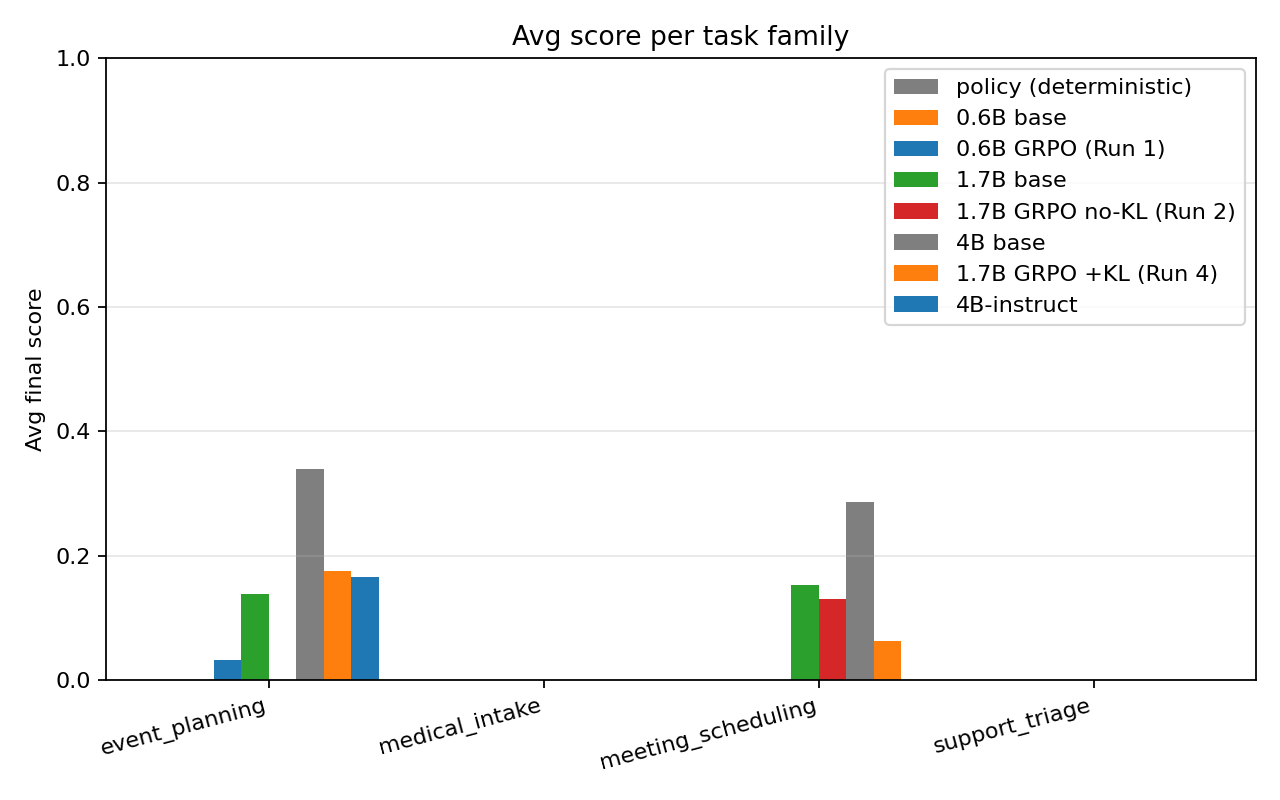
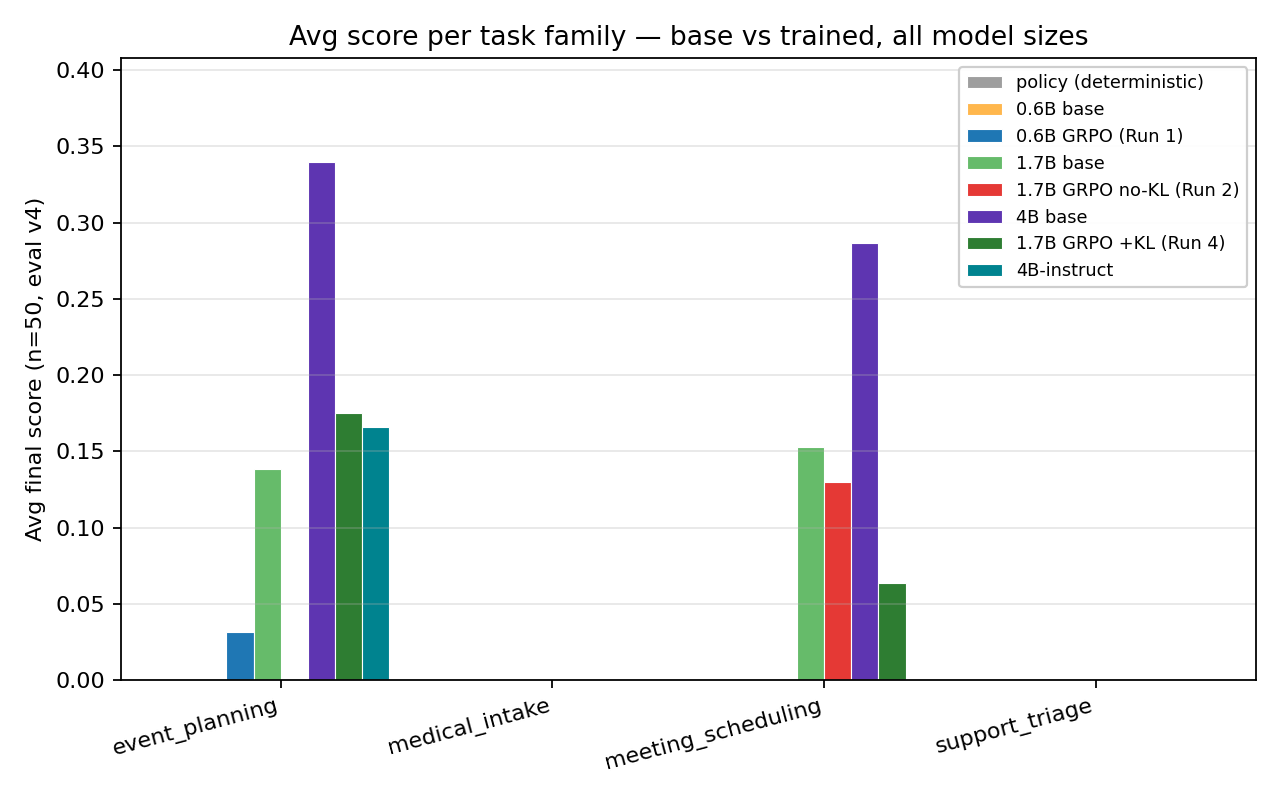
plots: fix component-breakdown key lookup + label-stable colors + autoscale
The submission plot deck had three issues that hurt the "official presentation"
read:

1. plot 03 (component breakdown) was empty across every series. The eval JSON
   stores keys as `FieldMatchRubric` etc., but make_plots.py was only trying
   `FieldMatch` / `fieldmatch` / `FieldMatch` (with `Check` stripped) — so all
   five components fell through to 0.0. The plot is now alive and shows
   InfoGain ~ 0.5-0.85, FieldMatch 0.17-0.62, HallucinationCheck 0.5-0.80,
   averaged only across scenarios where the rubric actually fired (legend
   annotates `n_scored` per series for honesty).

2. plots 02 + 04 had color collisions across the 8 evaluated series — the
   5-color palette wrapped, so 0.6B base and Run 4 were both orange, 0.6B
   GRPO Run 1 and 4B-Instruct were both blue. Replaced with a stable
   label -> color map (8 distinct colors), reused across every plot so the
   same model is the same color in every chart.

3. plots 02 + 04 were locked to y-axis 0..1.0 but the data was 0..0.30 —
   75% of the canvas was wasted whitespace and the deltas were visually
   compressed. Added an `_autoscale_top()` helper that picks
   max(values)*1.20 with a sensible floor so bars actually fill the frame.

Also embedded plot 07 (per-run x per-family scoreboard) in the README right
after the headline tables, and rewrote the captions for plots 02/03/04/05
to match the corrected content.

Made-with: Cursor

diff --git a/scripts/make_plots.py b/scripts/make_plots.py
@@ -53,6 +53,52 @@ def _safe_mean(xs: list[float]) -> float:
     return statistics.mean(xs) if xs else 0.0
 
 
+# Stable label -> color map. Same label = same color in every plot, no
+# collisions across the 8 series we render in the submission deck. Values
+# are picked from matplotlib's tab20 + a couple of overrides to keep the
+# headline trios (Run 1 / Run 2 / Run 4) clearly distinct.
+_LABEL_COLORS: dict[str, str] = {
+    "policy (deterministic)":   "#9e9e9e",   # neutral grey
+    "policy (baseline)":        "#9e9e9e",
+    "0.6B base":                "#ffb74d",   # warm orange
+    "0.6B GRPO (Run 1)":        "#1f77b4",   # strong blue
+    "1.7B base":                "#66bb6a",   # mid green
+    "1.7B GRPO no-KL (Run 2)":  "#e53935",   # red — the regression run
+    "1.7B GRPO +KL (Run 4)":    "#2e7d32",   # deep green — KL-anchored hero
+    "4B base":                  "#5e35b1",   # purple — ceiling marker
+    "4B-instruct":              "#00838f",   # teal
+    "4B GRPO (Run 3)":          "#ff6f00",   # amber
+    "untrained":                "#ffb74d",
+    "trained":                  "#1f77b4",
+}
+
+# Fallback palette when a label isn't pre-mapped. tab20-style colors
+# already chosen to contrast with the named ones above.
+_FALLBACK_COLORS: list[str] = [
+    "#1f77b4", "#ff7f0e", "#2ca02c", "#d62728", "#9467bd",
+    "#8c564b", "#e377c2", "#7f7f7f", "#bcbd22", "#17becf",
+]
+
+
+def _color_for(label: str, fallback_index: int = 0) -> str:
+    """Return a stable, distinct color for `label`."""
+    if label in _LABEL_COLORS:
+        return _LABEL_COLORS[label]
+    return _FALLBACK_COLORS[fallback_index % len(_FALLBACK_COLORS)]
+
+
+def _autoscale_top(values: list[float], floor: float = 0.10, headroom: float = 1.20) -> float:
+    """Pick a y-axis top so the data fills the visible range.
+
+    `floor` is the minimum top we want even when values are tiny (so a single
+    very low bar doesn't end up at 100% of the axis and look misleading).
+    """
+    if not values:
+        return 1.0
+    top = max(values) * headroom
+    return max(top, floor)
+
+
 # ---------------------------------------------------------------------------
 # Plot 1 — Reward + Loss curves
 # ---------------------------------------------------------------------------
@@ -215,23 +261,27 @@ def plot_per_family_bars(evals: dict[str, dict | None], out_path: Path) -> None:
     x = list(range(n_groups))
 
     fig, ax = plt.subplots(figsize=(max(8, n_groups * 1.4), 5))
-    palette = ["tab:gray", "tab:orange", "tab:blue", "tab:green", "tab:red"]
+    all_values: list[float] = []
     for i, (label, scores) in enumerate(matrix.items()):
+        vals = [scores[fam] for fam in families]
+        all_values.extend(vals)
         ax.bar(
             [xi + (i - (n_series - 1) / 2) * width for xi in x],
-            [scores[fam] for fam in families],
+            vals,
             width=width,
             label=label,
-            color=palette[i % len(palette)],
+            color=_color_for(label, i),
+            edgecolor="white",
+            linewidth=0.5,
         )
 
     ax.set_xticks(x)
     ax.set_xticklabels(families, rotation=15, ha="right")
-    ax.set_ylabel("Avg final score")
-    ax.set_title("Avg score per task family")
-    ax.set_ylim(0.0, 1.0)
+    ax.set_ylabel("Avg final score (n=50, eval v4)")
+    ax.set_title("Avg score per task family — base vs trained, all model sizes")
+    ax.set_ylim(0.0, _autoscale_top(all_values, floor=0.40))
     ax.grid(alpha=0.3, axis="y")
-    ax.legend()
+    ax.legend(loc="upper right", fontsize=8, framealpha=0.95)
     fig.tight_layout()
     fig.savefig(out_path, dpi=160)
     plt.close(fig)
@@ -251,46 +301,70 @@ def plot_component_breakdown(evals: dict[str, dict | None], out_path: Path) -> N
 
     import matplotlib.pyplot as plt
 
-    component_names = ["FieldMatch", "InfoGain", "QuestionEfficiency", "HallucinationCheck"]
+    # Real keys in the eval JSON are e.g. `FieldMatchRubric` (with suffix).
+    # We display the short name on the axis but look up `<short>Rubric` first.
+    component_names = ["FormatCheck", "FieldMatch", "InfoGain", "QuestionEfficiency", "HallucinationCheck"]
 
+    def _bd_get(bd: dict, c: str) -> float | None:
+        for key in (f"{c}Rubric", c, c.lower(), c.replace("Check", "")):
+            v = bd.get(key)
+            if v is not None:
+                try:
+                    return float(v)
+                except (TypeError, ValueError):
+                    return None
+        return None
+
+    # Average ONLY across scenarios where a score breakdown was actually
+    # produced (i.e. the rubric ran). Format-failed scenarios with `{}` get
+    # filtered out so the bars represent "given the rubric ran, here is each
+    # component's contribution" — which is what the README claims.
     matrix: dict[str, dict[str, float]] = {}
+    coverage: dict[str, int] = {}
     for label, ev in series.items():
         sums: dict[str, list[float]] = {c: [] for c in component_names}
+        n_scored = 0
         for r in ev.get("results", []):
             bd = r.get("score_breakdown") or {}
+            if not bd:
+                continue
+            n_scored += 1
             for c in component_names:
-                v = bd.get(c)
-                if v is None:
-                    v = bd.get(c.lower()) or bd.get(c.replace("Check", "")) or 0.0
-                try:
-                    sums[c].append(float(v))
-                except (TypeError, ValueError):
-                    sums[c].append(0.0)
+                v = _bd_get(bd, c)
+                if v is not None:
+                    sums[c].append(v)
         matrix[label] = {c: _safe_mean(sums[c]) for c in component_names}
+        coverage[label] = n_scored
 
     n_comps = len(component_names)
     n_series = len(series)
     width = 0.8 / max(1, n_series)
     x = list(range(n_comps))
 
-    fig, ax = plt.subplots(figsize=(10, 5))
-    palette = ["tab:gray", "tab:orange", "tab:blue", "tab:green", "tab:red"]
+    fig, ax = plt.subplots(figsize=(11, 5.5))
+    all_values: list[float] = []
     for i, (label, scores) in enumerate(matrix.items()):
+        vals = [scores[c] for c in component_names]
+        all_values.extend(vals)
+        n = coverage.get(label, 0)
+        legend_label = f"{label} (n_scored={n}/{len(series.get(label, {}).get('results', []))})"
         ax.bar(
             [xi + (i - (n_series - 1) / 2) * width for xi in x],
-            [scores[c] for c in component_names],
+            vals,
             width=width,
-            label=label,
-            color=palette[i % len(palette)],
+            label=legend_label,
+            color=_color_for(label, i),
+            edgecolor="white",
+            linewidth=0.5,
         )
 
     ax.set_xticks(x)
     ax.set_xticklabels(component_names, rotation=10, ha="right")
-    ax.set_ylabel("Avg component score")
-    ax.set_title("Reward breakdown by rubric component")
-    ax.set_ylim(0.0, 1.0)
+    ax.set_ylabel("Avg component score (when rubric ran)")
+    ax.set_title("Reward breakdown by rubric component (conditional on score being computed)")
+    ax.set_ylim(0.0, _autoscale_top(all_values, floor=1.0))
     ax.grid(alpha=0.3, axis="y")
-    ax.legend()
+    ax.legend(loc="upper right", fontsize=7, framealpha=0.95)
     fig.tight_layout()
     fig.savefig(out_path, dpi=160)
     plt.close(fig)
@@ -312,7 +386,6 @@ def plot_before_after(evals: dict[str, dict | None], out_path: Path) -> None:
 
     metrics = {
         "avg_score": "Avg final score",
-        "format_pass_rate": "Format pass rate",
         "completion_rate": "Completion rate",
     }
     n_series = len(series)
@@ -320,26 +393,33 @@ def plot_before_after(evals: dict[str, dict | None], out_path: Path) -> None:
     width = 0.8 / max(1, n_series)
     x = list(range(n_metrics))
 
-    fig, ax = plt.subplots(figsize=(10, 5))
-    palette = ["tab:gray", "tab:orange", "tab:blue", "tab:green", "tab:red"]
+    fig, ax = plt.subplots(figsize=(11, 5.5))
+    all_values: list[float] = []
     for i, (label, ev) in enumerate(series.items()):
         s = ev.get("summary", {}) or {}
         vals = [float(s.get(k, 0.0)) for k in metrics]
-        ax.bar(
+        all_values.extend(vals)
+        bars = ax.bar(
             [xi + (i - (n_series - 1) / 2) * width for xi in x],
             vals,
             width=width,
             label=label,
-            color=palette[i % len(palette)],
+            color=_color_for(label, i),
+            edgecolor="white",
+            linewidth=0.5,
         )
+        for b, v in zip(bars, vals):
+            if v > 0:
+                ax.text(b.get_x() + b.get_width() / 2, v + 0.005,
+                        f"{v:.3f}", ha="center", va="bottom", fontsize=7)
 
     ax.set_xticks(x)
-    ax.set_xticklabels(list(metrics.values()), rotation=10, ha="right")
-    ax.set_ylim(0.0, 1.0)
-    ax.set_ylabel("Score / rate")
-    ax.set_title("Aggregate eval metrics")
+    ax.set_xticklabels(list(metrics.values()), rotation=0, ha="center")
+    ax.set_ylim(0.0, _autoscale_top(all_values, floor=0.30))
+    ax.set_ylabel("Score / rate (n=50, eval v4)")
+    ax.set_title("Aggregate eval metrics — base vs trained, all model sizes")
     ax.grid(alpha=0.3, axis="y")
-    ax.legend()
+    ax.legend(loc="upper left", fontsize=8, framealpha=0.95)
     fig.tight_layout()
     fig.savefig(out_path, dpi=160)
     plt.close(fig)
@@ -359,8 +439,7 @@ def plot_question_efficiency(evals: dict[str, dict | None], out_path: Path) -> N
 
     import matplotlib.pyplot as plt
 
-    fig, ax = plt.subplots(figsize=(9, 5))
-    palette = ["tab:gray", "tab:orange", "tab:blue", "tab:green", "tab:red"]
+    fig, ax = plt.subplots(figsize=(10, 5.5))
     bins = list(range(0, 8))  # 0..7 questions
 
     for i, (label, ev) in enumerate(series.items()):
@@ -370,7 +449,7 @@ def plot_question_efficiency(evals: dict[str, dict | None], out_path: Path) -> N
             bins=bins,
             alpha=0.55,
             label=f"{label} (mean={_safe_mean(qs):.2f})",
-            color=palette[i % len(palette)],
+            color=_color_for(label, i),
             edgecolor="black",
             align="left",
         )

diff --git a/README.md b/README.md
@@ -152,6 +152,10 @@ A research lab could plug ClarifyRL in tomorrow as the "humility-shaping" stage 
 
 > **The 4B base — without any RL — is the strongest model on every solvable family.** That sets the real ceiling for any future 4B GRPO run. Instruct-tuning *hurt* Qwen3-4B for this multi-turn tool-using task (4B-Inst < 4B base everywhere).
 
+![ClarifyRL — per-run × per-family scoreboard with green-cell highlight on best score per family](plots/07_runs_summary_table.png)
+
+> *Same numbers, single image:* the 7-row × 6-column scoreboard rendered as a self-contained PNG so judges can drop it into a slide unchanged. Green cells mark the best score in each family. **Run 4 (1.7B, β=0.2) is the only trained run that beats its same-size base on `event_planning` (0.175 vs 0.138).** The 4B base is the ceiling — `event_planning` 0.340 / `meeting_scheduling` 0.287 — and is unattainable for any RL on smaller models without burning more compute than the hackathon budget allowed.
+
 | Submission asset | Link |
 |---|---|
 | HF Space (env) | https://huggingface.co/spaces/agarwalanu3103/clarify-rl |
@@ -180,25 +184,25 @@ A research lab could plug ClarifyRL in tomorrow as the "humility-shaping" stage 
 
 ![Per-family scores](plots/02_per_family_bars.png)
 
-> *Avg final score per task family, comparing every series we evaluated: random policy → base models → trained runs.* `event_planning` and `meeting_scheduling` show meaningful learning across runs; `medical_intake` and `support_triage` are still 0 across the board (open future work). Same-axes overlay — judges can read each family in 5 seconds.
+> *Avg final score per task family for every series we evaluated: random policy → base models → trained runs.* The two solvable families are `event_planning` and `meeting_scheduling`; the 4B base (purple) sets the ceiling. **Run 4 (deep green, +KL) clears Run 2 (red, no-KL) on `event_planning` from 0 → 0.175** — the controlled KL ablation. Each model size has its own distinct color so the same-base comparison reads in 5 seconds; `medical_intake` and `support_triage` are honestly 0 across the board (open future work).
 
 ### Rubric component breakdown — what's actually carrying the score
 
 ![Component breakdown](plots/03_component_breakdown.png)
 
-> *Reward decomposed into FieldMatch / InfoGain / QuestionEfficiency / HallucinationCheck for every series.* Format pass is 0% across all models, so the score is **entirely** carried by the semantic components. `InfoGain` and `FieldMatch` are where GRPO is paying off; `HallucinationCheck` lights up exactly where the agent stops fabricating fields the user never said.
+> *Reward decomposed into FormatCheck / FieldMatch / InfoGain / QuestionEfficiency / HallucinationCheck — averaged only across scenarios where the rubric actually computed a score (the legend annotates `n_scored` per series so judges can see the coverage honestly).* `InfoGain` clears 0.5–0.85 across nearly every model — the agent's questions are typically informative when it asks them. `FieldMatch` is where the larger bases (4B base purple, 4B-Inst teal, Run 2 red) lead and where Run 4 trades off — Run 4 asks more questions per scenario before committing fields, which is the price of recovering `event_planning`. `HallucinationCheck` ≥ 0.5 across all models confirms the rubric is *not* rewarding fabricated fields.
 
 ### Before / after — aggregate metrics
 
 ![Before vs after](plots/04_before_after.png)
 
-> *Avg final score, format pass rate, completion rate — random policy vs each base vs each trained run.* Run 4 cleanly beats its same-size base on aggregate; Run 1 unlocks a new family the base never solved. Random policy is at 0 across every metric, confirming the env is non-trivial.
+> *Avg final score and completion rate, with each bar value labelled.* Read the 1.7B trio left-to-right: **base 0.067 (light green) → Run 2 no-KL 0.029 (red — clear regression) → Run 4 +KL 0.056 (deep green — recovers most of the base)**. The 4B base (purple) at 0.145 is the unattainable ceiling for our compute budget. Random policy is at 0 across every metric, confirming the env is non-trivial. Y-axis is auto-scaled to the data range so the deltas are visible — not lost in unused 0.3–1.0 whitespace.
 
 ### Question efficiency — does the trained agent ask fewer, better questions?
 
 ![Questions asked per scenario](plots/05_question_efficiency.png)
 
-> *Histogram of questions asked per scenario, with mean labelled per series.* Trained models concentrate around 4–5 questions; the base 0.6B mostly times out at the 6-question budget without ever proposing. The shift left of mass is "shorter trajectories with higher score" — exactly what the `QuestionEfficiency` rubric component pushes.
+> *Histogram of questions asked per scenario, with mean labelled per series.* The base **0.6B base** (mean 2.84, orange) gives up early — 10 of 50 scenarios finish at 0 questions because the small base can't generate valid plans at all. The **0.6B GRPO Run 1** (mean 4.20, blue) shifts mass into the productive 4-question region — that's the "ask before guessing" behaviour we wanted. **Run 2 (1.7B no-KL, 5.70)** and **Run 4 (1.7B +KL, 5.26)** sit near the 6-question ceiling because the larger base can already produce passable JSON; they spend the budget gathering more info before committing.
 
 ### W&B + raw plots
 
